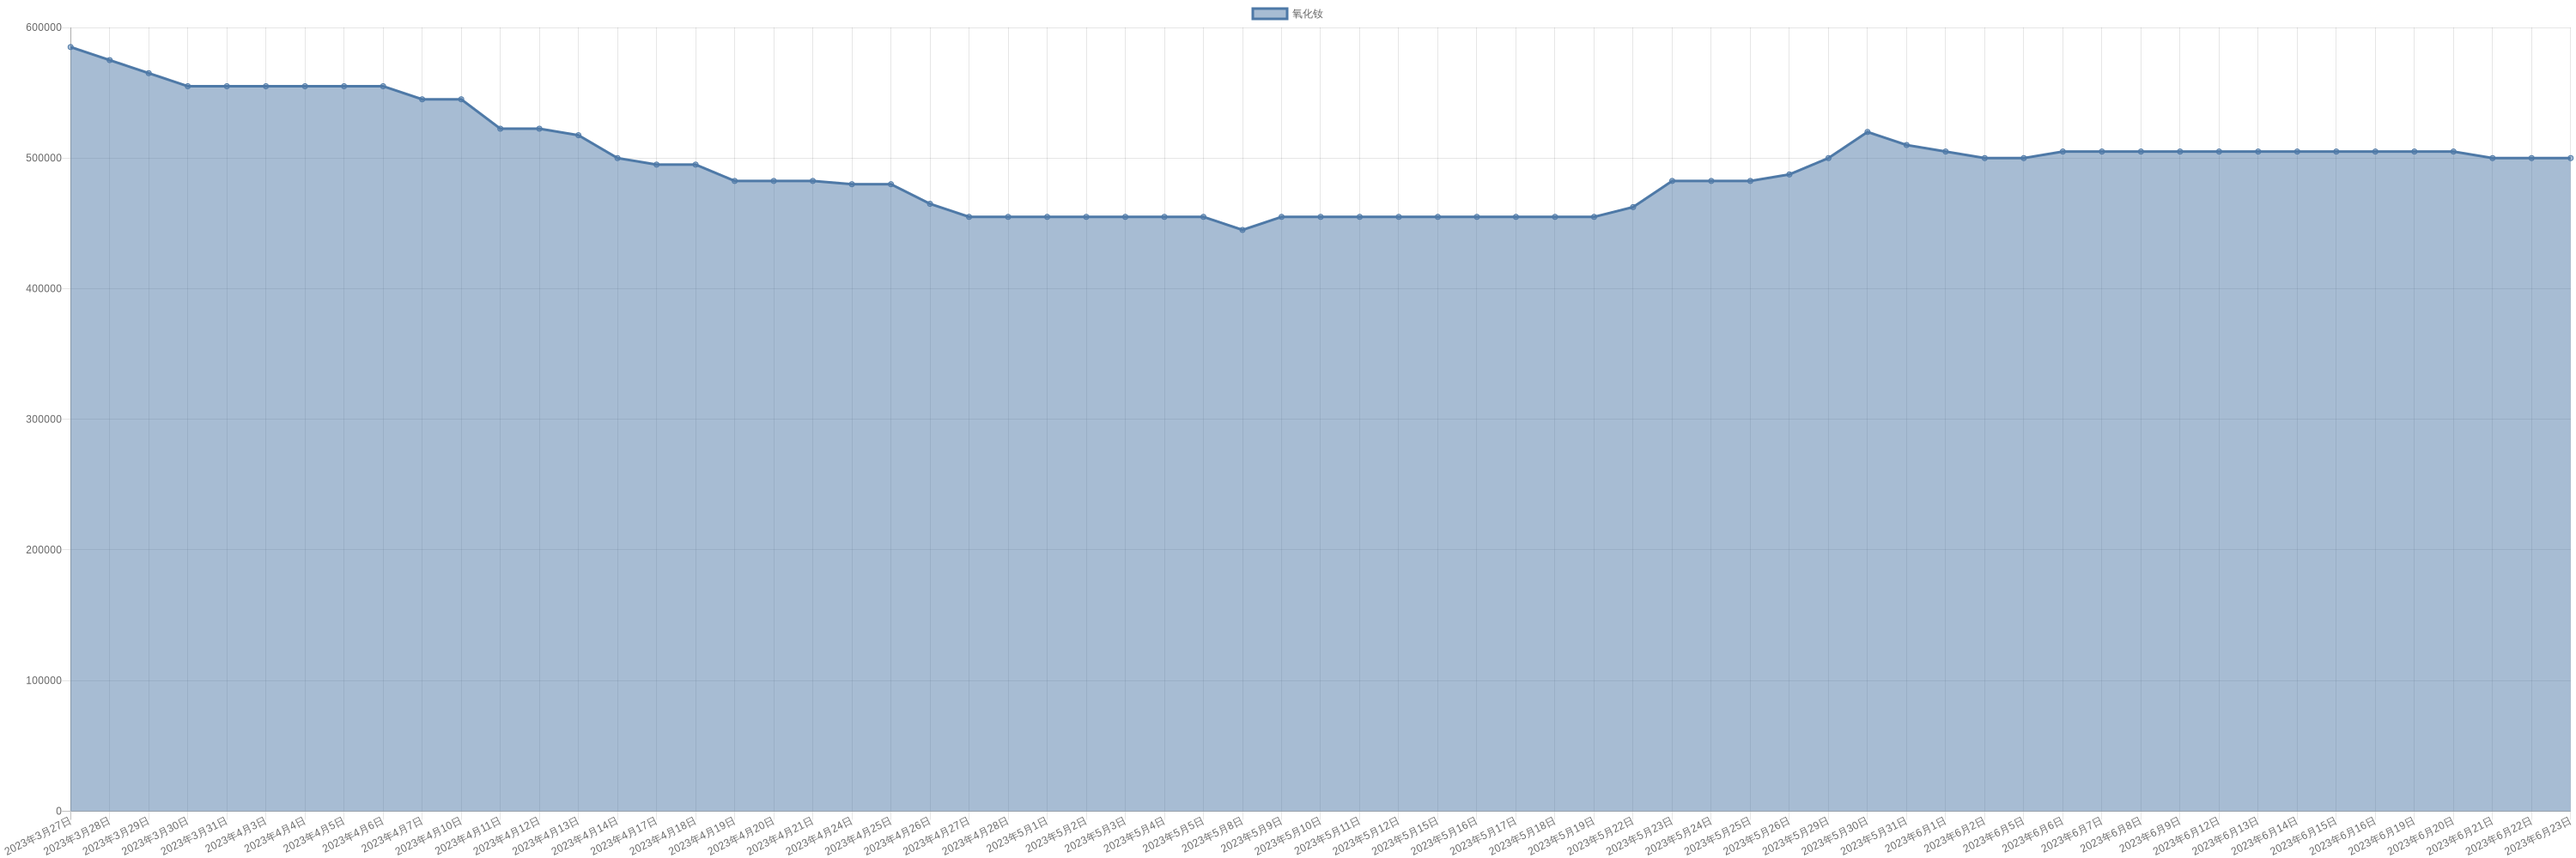
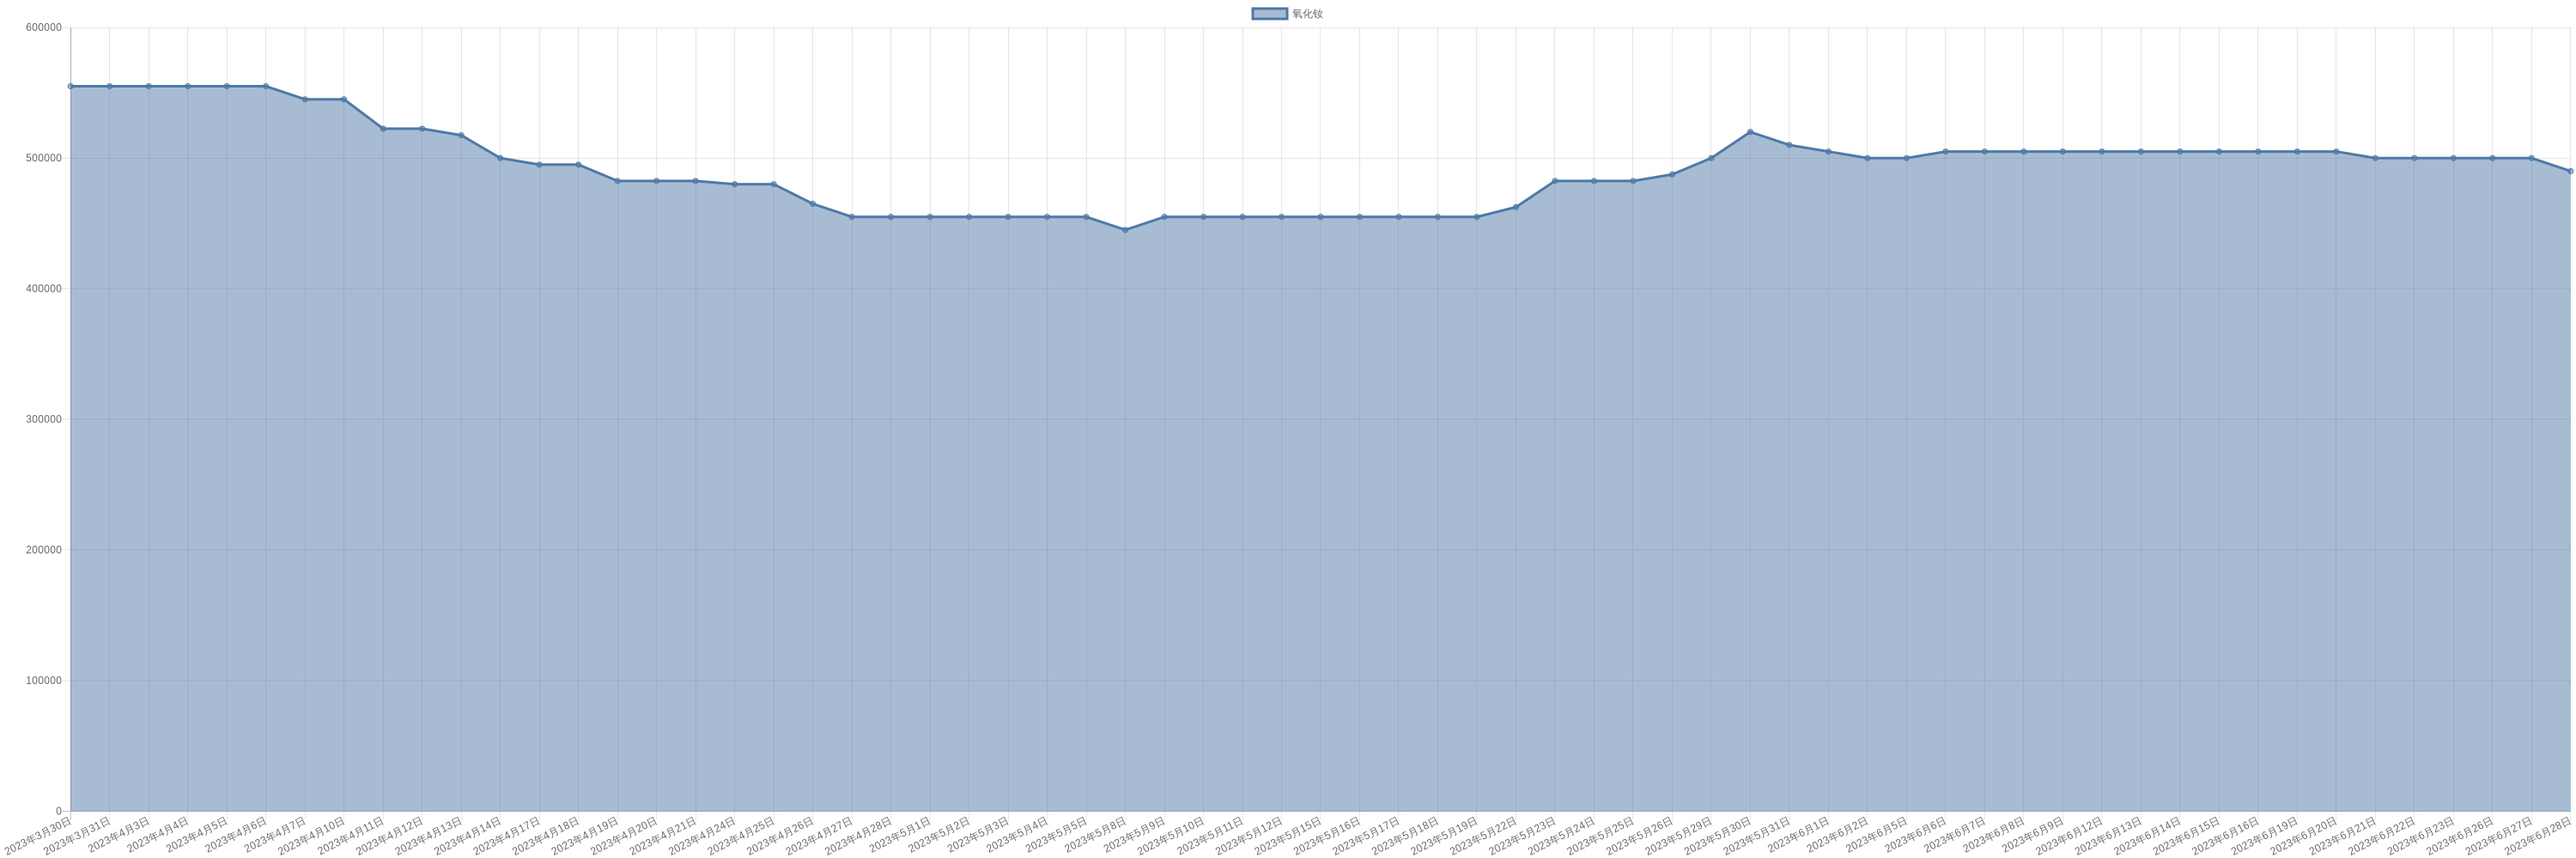
chore: sync koala hacker news

diff --git a/markdown/koala.md b/markdown/koala.md
@@ -1,5 +1,22 @@
 # koala hacker news 
 
+## 第80期 
+
+### [Hacker News 周报] 更快的 Segment Anything；轻量级数据库缓存；更好的 React 开发框架 
+
+- [视频链接](https://www.bilibili.com/video/av912910501) 
+
+|时间轴|简介|链接|
+|:--:|:--:|:--:|
+|00:09|Tabserve｜一个反向代理工具|https://tabserve.dev/|
+|00:49|ReadySet｜轻量级数据库缓存|https://github.com/readysettech/readyset|
+|01:32|Refine｜更好的React开发框架|https://github.com/refinedev/refine|
+|02:05|1-Panel｜开源Linux服务器运维管理面板|https://github.com/1Panel-dev/1Panel|
+|02:29|在Go程序中实现插件系统|https://www.youtube.com/watch?v=pRT36VqpljA |
+|02:47|本周AI小结|一周 AI 小结： |
+|Bgm｜|DreamingAboutSummerbyRotemCinamon|https://about.sourcegraph.com/cody |
+
+
 ## 第79期 
 
 ### [Hacker News 周报]  Vercel AI SDK 发布；开源 codespaces 替代品；UI 原型工具创新 

diff --git a/markdown/commodity/crudeOil.md b/markdown/commodity/crudeOil.md
@@ -2,6 +2,12 @@
 
 | 时间 | 价格 | 消息正文 |
 |:--:|:--:|:--:|
+|2023年6月28日WTI|67.7|6月28日WTI原油为67.70|
+|2023年6月28日Brent|72.51|6月28日Brent原油为72.51|
+|2023年6月27日WTI|69.37|6月27日WTI原油为69.37|
+|2023年6月27日Brent|74.35|6月27日Brent原油为74.35|
+|2023年6月26日WTI|69.16|6月26日WTI原油为69.16|
+|2023年6月26日Brent|74.01|6月26日Brent原油为74.01|
 |2023年6月23日WTI|71.19|6月23日WTI原油为71.19|
 |2023年6月23日Brent|75.9|6月23日Brent原油为75.90|
 |2023年6月22日WTI|71.19|6月22日WTI原油为71.19|

diff --git a/markdown/commodity/dysprosiumMetal.md b/markdown/commodity/dysprosiumMetal.md
@@ -8,6 +8,9 @@
 
 | 时间 | 价格 | 消息正文 |
 |:--:|:--:|:--:|
+|2023年6月28日|2710000|6月28日金属镝为2710000.00|
+|2023年6月27日|2710000|6月27日金属镝为2710000.00|
+|2023年6月26日|2710000|6月26日金属镝为2710000.00|
 |2023年6月23日|2710000|6月23日金属镝为2710000.00|
 |2023年6月22日|2710000|6月22日金属镝为2710000.00|
 |2023年6月21日|2710000|6月21日金属镝为2710000.00|

diff --git a/markdown/commodity/dysprosiumOxide.md b/markdown/commodity/dysprosiumOxide.md
@@ -8,6 +8,9 @@
 
 | 时间 | 价格 | 消息正文 |
 |:--:|:--:|:--:|
+|2023年6月28日|2225000|6月28日氧化镝为2225000.00|
+|2023年6月27日|2220000|6月27日氧化镝为2220000.00|
+|2023年6月26日|2210000|6月26日氧化镝为2210000.00|
 |2023年6月23日|2150000|6月23日氧化镝为2150000.00|
 |2023年6月22日|2150000|6月22日氧化镝为2150000.00|
 |2023年6月21日|2150000|6月21日氧化镝为2150000.00|

diff --git a/markdown/commodity/liquefiedNaturalGas.md b/markdown/commodity/liquefiedNaturalGas.md
@@ -8,6 +8,9 @@
 
 | 时间 | 价格 | 消息正文 |
 |:--:|:--:|:--:|
+|2023年6月28日|3974|6月28日液化天然气为3974.00|
+|2023年6月27日|4090|6月27日液化天然气为4090.00|
+|2023年6月26日|4090|6月26日液化天然气为4090.00|
 |2023年6月23日|4266|6月23日液化天然气为4266.00|
 |2023年6月22日|4266|6月22日液化天然气为4266.00|
 |2023年6月21日|4266|6月21日液化天然气为4266.00|

diff --git a/markdown/commodity/neodymium.md b/markdown/commodity/neodymium.md
@@ -8,6 +8,9 @@
 
 | 时间 | 价格 | 消息正文 |
 |:--:|:--:|:--:|
+|2023年6月28日|615000|6月28日金属钕为615000.00|
+|2023年6月27日|620000|6月27日金属钕为620000.00|
+|2023年6月26日|620000|6月26日金属钕为620000.00|
 |2023年6月23日|620000|6月23日金属钕为620000.00|
 |2023年6月22日|620000|6月22日金属钕为620000.00|
 |2023年6月21日|620000|6月21日金属钕为620000.00|

diff --git a/markdown/commodity/neodymiumOxide.md b/markdown/commodity/neodymiumOxide.md
@@ -8,6 +8,9 @@
 
 | 时间 | 价格 | 消息正文 |
 |:--:|:--:|:--:|
+|2023年6月28日|490000|6月28日氧化钕为490000.00|
+|2023年6月27日|500000|6月27日氧化钕为500000.00|
+|2023年6月26日|500000|6月26日氧化钕为500000.00|
 |2023年6月23日|500000|6月23日氧化钕为500000.00|
 |2023年6月22日|500000|6月22日氧化钕为500000.00|
 |2023年6月21日|500000|6月21日氧化钕为500000.00|

diff --git a/markdown/commodity/praseodymium.md b/markdown/commodity/praseodymium.md
@@ -8,6 +8,9 @@
 
 | 时间 | 价格 | 消息正文 |
 |:--:|:--:|:--:|
+|2023年6月28日|635000|6月28日金属镨为635000.00|
+|2023年6月27日|645000|6月27日金属镨为645000.00|
+|2023年6月26日|645000|6月26日金属镨为645000.00|
 |2023年6月23日|655000|6月23日金属镨为655000.00|
 |2023年6月22日|655000|6月22日金属镨为655000.00|
 |2023年6月21日|655000|6月21日金属镨为655000.00|

diff --git a/markdown/commodity/praseodymiumOxide.md b/markdown/commodity/praseodymiumOxide.md
@@ -8,6 +8,9 @@
 
 | 时间 | 价格 | 消息正文 |
 |:--:|:--:|:--:|
+|2023年6月28日|487500|6月28日氧化镨为487500.00|
+|2023年6月27日|497500|6月27日氧化镨为497500.00|
+|2023年6月26日|497500|6月26日氧化镨为497500.00|
 |2023年6月23日|505000|6月23日氧化镨为505000.00|
 |2023年6月22日|505000|6月22日氧化镨为505000.00|
 |2023年6月21日|505000|6月21日氧化镨为505000.00|
